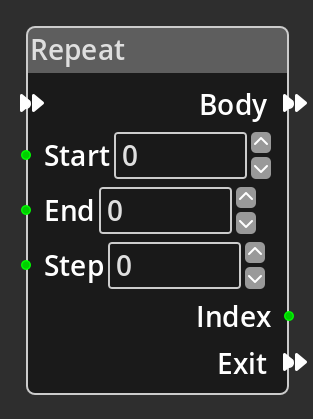
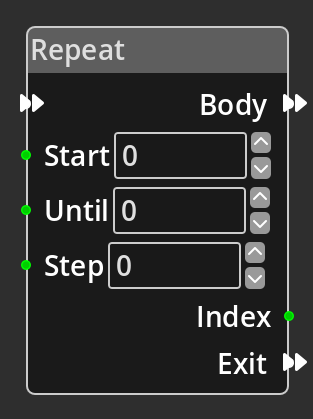
Add a first tutorial, simple platformer controller.

Changed region(s): [[0.1438, 0.4344, 0.4313, 0.5585], [0.7188, 0.4344, 0.8626, 0.5585]]

diff --git a/docs/tutorials/simple_platformer_controller.md b/docs/tutorials/simple_platformer_controller.md
@@ -1,0 +1,204 @@
+# Simple Platformer Controller
+
+## How To Create A Simple, Left, Right and Jump Platformer Controller
+
+One of the most common game genres for retro computers is the platformer, a
+game where the player typically has controls to move left and right, and to
+jump onto platforms and fall down when walking off a platform. This tutorial
+guides you through creating the logic nodes to create a player object in this
+style. While this very likely won't be adequate for a fully fledged game it
+should give some insights into some of the techniques that Kwyll offers to do
+this and serve as a starting point for customisation and improvement.
+
+## Setup
+
+### Sprite
+
+First, lets start by creating a sprite for our character, something simple as
+we're not focused on animation for this tutorial.
+
+![Player Sprite](../assets/tutorials/simple_platformer_controller/player_sprite.png)
+
+
+### Object
+
+Then we'll turn this sprite into a simple object, our Player, remember to name
+it appropriately and set the draw mode to mask if you've drawn a mask for your
+player sprite. Add a single animation with one frame and choose the sprite you
+created for your character.
+
+![Player Object](../assets/tutorials/simple_platformer_controller/player_object.png)
+
+
+### Room
+
+Next we'll setup a simple room to test out the player. Create a single simple
+tile, in the properties dialog, make sure to set the default collision to "top"
+as this will be the tile for our platforms, we want to be able to jump up
+through it, but then land on the top and not fall through.
+
+![Tile](../assets/tutorials/simple_platformer_controller/tile.png)
+
+Draw a ground and some platforms for our player to jump on using the tile we
+just created.
+
+![Room](../assets/tutorials/simple_platformer_controller/room.png)
+
+Drag the Player object from the objects panel onto the room. Note: normally
+the player would be a "Map" object, which allows it to travel between rooms,
+but for the purposes of this tutorial, we'll just have a single room, so we can
+just place our player in the room directly. 
+
+
+![Player In Room](../assets/tutorials/simple_platformer_controller/player_in_room.png)
+
+Once placed, open the object properties dialog and make sure the "Collide Bg"
+flag is set so that the player object will collide with our platform tiles.
+
+![Player Object Flags](../assets/tutorials/simple_platformer_controller/player_object_flags.png)
+
+
+### Map
+
+Finally, in order to be able to play the game, we must add the room to the map.
+
+![Map](../assets/tutorials/simple_platformer_controller/map.png)
+
+
+## Logic
+
+Now that we've got all the pieces in place, it's time to look at the core of
+this tutorial, the logic. In order to keep things clear, the different steps of
+the logic are implemented as separate flows, some of them could potentially be
+combined if you wanted to reduce the number of nodes, that is left as an
+exercise for the reader. 
+
+We break the logic down into 5 steps, movement, jump triggering, jump
+processing, fall processing and landing.
+
+Firstly, we'll need some variables to use during the logic, add the following
+variables to the Player object logic:
+
+ * speed
+ * jump_amount
+ * fall_amount
+ * can_jump
+
+![Variables](../assets/tutorials/simple_platformer_controller/variables.png)
+
+
+### Movement
+
+This flow is triggered by an "Always" trigger so will run every frame. It
+serves two purposes, checking the left right keys and altering the player's
+position in the horizontal direction, and applying any jump/fall amounts to
+adjust the player's position in the vertical direction. Once this is done, it
+will attempt to move the player to the new location.
+
+![Move Logic](../assets/tutorials/simple_platformer_controller/move_logic.png)
+
+Following the flow connections (white) you can see the first thing that happens
+after the flow is triggered is to set the "can_jump" variable to 0, this is so
+that should the move cause the player to fall off a platform they won't be able
+to jump, if the move does not cause the player to start falling, this flag will
+be reset by the [Landing](#landing) flow described below.
+
+The next thing in the flow is the actual move, this gets the X and Y position
+to move to from a set of calculations. Let's look at X first. 
+
+The "Controller Input" node is configured to return -1 for left and 1 for
+right, if either button is not pressed, it will return 0 for that direction.
+These two values are added together in a "Math" node, this is to cancel out
+should the player press both left and right simultaneously, as 1 + -1 is 0, if
+only one button is pressed, the result will be either -1 or 1 depending on
+whether left or right is pressed.
+
+The result of this calculation is then fed into another "Math" node that
+multiplies the direction by the "speed" variable (don't forget to set the speed
+to something other than 0 in the object properties back in the Room editor!).
+The result of this calculation is then fed into a third "Math" node that adds
+it to the current X position of the player, moving it in the correct direction
+by the desired speed.
+
+The Y position is calculated by subtracting the "jump_amount" variable from the
+current Y position of the player (remember negative Y is up on the screen), and
+then adding in the "fall_amount" variable to account for falling.
+
+
+### Jump Triggering
+
+Next, in a separate "Always" flow, we check the jump button, note the
+"Controller Input" is set to "Just Pressed" for this, as we don't want the jump
+to be continuous as we do for the left/right movement, this is one good reason
+to keep the flows separate. 
+
+![Jump Logic](../assets/tutorials/simple_platformer_controller/jump_logic.png)
+
+We compare the result from the "Controller Input" to see if jump has just been
+pressed. We also check the value of the "can_jump" variable, and feed the
+result of both of these comparisons into an "AND" node. Only if the button is
+pressed, and the player can jump, do we proceed to make the player jump. This
+is done by simply setting the "jump_amount" variable to the initial jump amount
+we want, you can tweak this value to get the height you desire for your game.
+We also set the "fall_amount" to 0 and the "can_jump" to 0, this prevents the
+falling from completely overriding the jump back up in the
+[Movement](#movement) flow, and prevents the player from jumping again until
+they have landed.
+
+
+### Jump Processing
+
+Next, in another "Always" flow, we continuously adjust the "jump_amount" if it
+is not zero.
+
+![Jump Processing](../assets/tutorials/simple_platformer_controller/jump_logic_2.png)
+
+Here we check if "jump_amount" is greater than zero, which indicates the player
+is jumping, if it is, we reduce it by 1 and then clamp the result to make sure
+that it doesn't go below zero, if it did, it would add to the falling resulting
+in the player falling faster than they should.
+
+
+### Fall Processing
+
+Next, in yet another "Always" flow, we continuously adjust the "fall_amount" so
+that the player falls faster up to a limit, accelerating towards the ground
+when they step off a platform.
+
+![Fall Processing](../assets/tutorials/simple_platformer_controller/fall_logic.png)
+
+This simply adds 1 to the "fall_amount" each frame and then clamps it to a
+reasonable range so the player doesn't fall too fast, you can tweak the upper
+limit of the clamp to get the desired maximum falling speed for your game.
+
+
+### Landing
+
+Finally for now, we have the logic flow that reacts when the player has
+collided with something. The "Collided" trigger is automatically run when the
+"Move Object" node in the [Movement](#movement) flow results in the player
+hitting something. For the purposes of this tutorial, we know it can only be a
+platform or the ground, but we check the direction for completeness anyway and
+to ensure that collision in other directions is cleanly handled as you continue
+to develop your game around this controller.
+
+![Landing](../assets/tutorials/simple_platformer_controller/land_logic.png)
+
+The flow first checks if the side that was hit is 2, which indicates the player
+hit something when moving down on the screen, i.e. hit the top of a tile that
+has the top collision flag set, like our tile. If this is true, we set the
+"fall_amount" variable to 0, the [Fall Processing](#fall_processing) flow will
+increase it to take care of falling off a platform next time round, and set the
+"can_jump" variable to 1 to indicate that the player can now jump again as they
+have landed.
+
+
+## Testing
+
+That should be all that is required to get a basic platformer control working
+in Kwyll. Switch to the Preview tab and start the game, you should be able to
+move left and right, and jump up onto the platforms. When you walk off a
+platform the player should fall to the ground.
+
+
+![Preview](../assets/tutorials/simple_platformer_controller/preview.png)

diff --git a/docs/logic/nodes/repeat.md b/docs/logic/nodes/repeat.md
@@ -1,5 +1,78 @@
 
 # Repeat 
 
-![Repeat Node](../../assets/nodes/repeat_node.png){align=left}
+## Description
+
+ ![Repeat Node](../../assets/nodes/repeat_node.png){align=left}
+ The *Repeat Node* will run the node flow that is connected to its *Body* output port
+ repeatedly while an index is between the *Start* and *Until* values provided, altering
+ the index value each time around the loop by the *Step* value.
+
+ The index is first set to the *Start* value, and then it is compared to the *Until*
+ value, if the *Step* is positive and the index is greater than or equal to the *Until*
+ value, the loop exits, similarly, if *Step* is negative and the index is less than or
+ equal to the *Until* value, the loop exits. That is, the loop runs while the index is
+ *before* the *Until* value, it is "exclusive".
+
+ During the looping, the current value of the index can be accessed by nodes in the *Body*
+ using the *Index* port. Before execution, the index port is undefined, after execution
+ it will contain the last value of the index before exiting the loop.
+
+ When the loop is complete, the logic graph will continue with the flow connected to the
+ *Exit* port.
+
+<br style="clear:left"/>
+  
+-------
+
+## Ports
+
+Flow In
+: In order for this node to perform its operation, it must be connected into an
+  active flow using this input port. The flow will ultimately originate at a
+  __Trigger__ node but can come from the __Flow Out__ port of any other flow
+  node.
+
+Body
+: The nodes that are to be repeatedly executed during the loop. Execution will 
+  continue while there is a node connected to the Flow Out of the last node
+  executed, the body ends when there is no connection to the Flow Out, at which
+  point the index is updated and the node will check if it is to run the loop 
+  again or exit.
+
+Start
+: An integer port providing the start value of the index, this will be the value
+  of the index during the first run of the *Body*, it is "inclusive".
+  
+Until
+: An integer port providing the value to check the index against for exiting the
+  loop. The loop is exited before the index reaches this value.
+
+Step
+: An integer port providing the value to add to the index each iteration through
+  the loop. This value can be positive or negative, allowing loops where the index
+  increases or decreases with each iteration.
+
+Index
+: An integer output port that provides the current value of the index in the loop, 
+  typically used by nodes within the *Body* flow.
+
+Exit
+: A node connected to the __Flow Out__ port will be executed in sequence
+  following the completion of this node's operation.
+
+
+-------
+
+## Parameters
+
+Start 
+: An integer input to specify a fixed value for the start of the loop index.
+
+Until 
+: An integer input to specify a fixed value for the exit point of the loop.
+
+Step
+: An integer input to specify a fixed value to be added to the index each iteration
+  through the loop.
 

diff --git a/docs/nav.md b/docs/nav.md
@@ -2,3 +2,4 @@
  * [Introduction](introduction/)
  * [Interface](interface/)
  * [Logic](logic/)
+ * [Tutorials](tutorials/)
